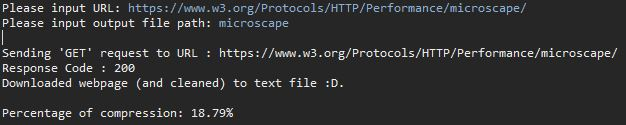
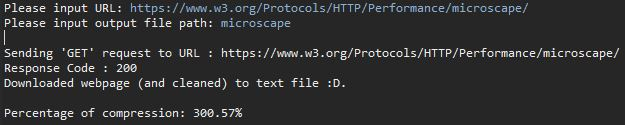
Added comments and updated files

diff --git a/src/edu/miracosta/cs113/HuffmanTrees/HuffmanTree.java b/src/edu/miracosta/cs113/HuffmanTrees/HuffmanTree.java
@@ -5,26 +5,43 @@ import java.util.Comparator;
 import java.util.Hashtable;
 import java.util.PriorityQueue;
 
-
+/**
+ * Huffman : Class that creates a huffman tree from a priority queue with given string
+ * 
+ * @author Joseph Berlucchi
+ * @version 1.0
+ */
 public class HuffmanTree implements HuffmanInterface {
 	
 	private PriorityQueue<BinaryTree<Node>> pq;
 	private ArrayList<Node> frequencyTable; 
 	private Hashtable<Character, String> encodeTable;
 	
+	/**
+	 * constuctor to create a Huffman tree from elements from the string argument
+	 * 
+	 * @param message the string object to be made a huffman tree
+	 */
 	public HuffmanTree(String message) {
 		pq = new PriorityQueue<BinaryTree<Node>>(new NodeCompare());
 		frequencyTable = new ArrayList<>();
 		encodeTable = new Hashtable<>();
 		
+		//Traverses the message as a character objects
 		for(char c : message.toCharArray()) {
+			
 			if(c == ' ') c = '_';
-
+			
+			
 			Node newNode = new Node(c);
+			
+			//If frequency table doesn't have the the element insert at the end
 			if(!frequencyTable.contains(newNode)) {
 				frequencyTable.add(newNode);
 				continue;
 			}
+			
+			//Traverses the table and updates the frequency
 			for(Node n : frequencyTable) {
 				if(n.equals(newNode)) {
 					n.setFreq(n.getFreq() + 1);
@@ -34,10 +51,11 @@ public class HuffmanTree implements HuffmanInterface {
 			
 		}
 		
+		//adds all the nodes as sub binary trees into the priority queue
 		for(Node n : frequencyTable) {
 			pq.add(new BinaryTree<Node>(n, null, null));
 		}
-
+		
 		loadTree();
 
 		
@@ -46,25 +64,38 @@ public class HuffmanTree implements HuffmanInterface {
 		
 	}
 	
+	/**
+	 * Inserts every code from a tree into a hash table
+	 * 
+	 * @param tree
+	 * @param s
+	 */
 	private void codesToHashtable(BinaryTree<Node> tree, String s) {
+		//If tree is a leaf insert key and vaue into the hash table
 		if(tree.isLeaf()) {
 			encodeTable.put(tree.getData().getChar(), s);
 			return;
 		}
+		//recursive case to traverse the tree
 		codesToHashtable(tree.getLeftSubtree(), s + "0");
 		codesToHashtable(tree.getRightSubtree(), s + "1");
 	}
 	
-	
+	/**loads the into a priority queue*/
 	private void loadTree() {
+		
 		while(pq.size() > 1) {
+			//Polls the first two from prio queue
 			BinaryTree<Node> first = pq.poll();
 			BinaryTree<Node> second = pq.poll();
 			
+			//Creates the parent node of these queues
 			Node newRootNode = new Node(first.getData().getFreq() + second.getData().getFreq());
+			//Adds a new tree to prio queue
 			pq.add(new BinaryTree<Node>(newRootNode, first, second));
 			
 		}
+		
 		codesToHashtable(pq.peek(), "");
 		
 	}
@@ -101,6 +132,8 @@ public class HuffmanTree implements HuffmanInterface {
 	@Override
 	public String encode(String message) {
 		String output = "";
+		
+		//For each character get the character value from the and append to the string
 		for(char c : message.toCharArray()) {
 			if(c == ' ') c = '_';
 			output += encodeTable.get(c);
@@ -108,6 +141,12 @@ public class HuffmanTree implements HuffmanInterface {
 		return output;
 	}
 	
+	/**
+	 * Node : Class that stores the frequency of a character
+	 * 
+	 * @author Joseph Berlucchi
+	 * @version 1.0
+	 */
 	private class Node implements Comparable<Node>{
 		private char c;
 		private int freq;
@@ -138,6 +177,7 @@ public class HuffmanTree implements HuffmanInterface {
 			this.freq = freq;
 		}
 		
+		/**Equality based on character*/
 		@Override
 		public boolean equals(Object o) {
 			if(o == null) return false;
@@ -150,7 +190,8 @@ public class HuffmanTree implements HuffmanInterface {
 		public String toString() {
 			return c + ":" + freq;
 		}
-
+		
+		/**Compares based on frequency*/
 		@Override
 		public int compareTo(Node o) {
 			if(o == null) {
@@ -166,8 +207,15 @@ public class HuffmanTree implements HuffmanInterface {
 		}
 	}
 	
+	/**
+	 * NodeCompare : Comparator object to compare root data from two bonary trees
+	 * 
+	 * @author Joseph Berlucchi
+	 * @version 1.0
+	 */
 	private class NodeCompare implements Comparator<BinaryTree<Node>>{
-
+		
+		/**Compares root data*/
 		@Override
 		public int compare(BinaryTree<Node> o1, BinaryTree<Node> o2) {
 			

diff --git a/src/edu/miracosta/cs113/HuffmanTrees/HuffmanTreeDriver.java b/src/edu/miracosta/cs113/HuffmanTrees/HuffmanTreeDriver.java
@@ -7,34 +7,66 @@ import java.io.FileReader;
 import java.io.FileWriter;
 import java.io.IOException;
 import java.util.Scanner;
-
+/**
+ * HuffmanTreeDriver.java: a driver to compress data from a website
+ *  
+ * @author Joseph Berlucchi <joeberlucchi2019@gmail.com>
+ * @Version 1.0
+ * 
+ */
 public class HuffmanTreeDriver {
+	/*
+     * ALGORITHM:
+     * 
+     * PROMPT user for URL and filename
+     * 
+     * Invoke makeCleanFIle with the url and path name
+     * get bits in file by taking the number of chars in the file and multiplying it by 16.
+     * read all the characters from the file and put it into a string
+     * create a huffman tree from the string above
+     * invoke encode from HuffmanTree class using the string
+     * put the encoded string into a different file
+     * decode the encoded and put it into a differnt file
+     * get number of characters from the encoded file
+     * 
+     * Print compression percentage by taking the bits in raw file / compressed file bits
+     *
+     */
 	
 	public static void main(String[] args) {
 		Scanner input = new Scanner(System.in);
+		
+		//Prompt user for URL and file name
 		System.out.print("Please input URL: ");
 		String URL = input.nextLine();
 		System.out.print("Please input output file path: ");
 		String filename = input.nextLine();
+		
+		//All three diferent file names
 		String outputFilePathD =  "src\\edu\\miracosta\\cs113\\HuffmanTrees\\"+ filename + "Decode.txt";
 		String outputFilePath =  "src\\edu\\miracosta\\cs113\\HuffmanTrees\\"+ filename + "Encode.txt";
 		String inputFilePath = "src\\edu\\miracosta\\cs113\\HuffmanTrees\\"+ filename + "Raw.txt";
 		
+		// open the url and put it into a file
 		try {
-			TextFileGenerator.makeCleanFile(URL, inputFilePath);// src/edu/miracosta/cs113/HuffmanTrees/output.txt
+			TextFileGenerator.makeCleanFile(URL, inputFilePath);
 		} catch (IOException e) {
 			System.exit(0);
 			e.printStackTrace();
 		}
 		
-		double fileBits = TextFileGenerator.getNumChars(inputFilePath);
+		//Calculate bits from that file
+		double fileBits =  16 * TextFileGenerator.getNumChars(inputFilePath);
 		BufferedReader in = null;
+		
+		//Get a buffered reader for the file
 		try {
 			in = new BufferedReader(new FileReader(inputFilePath));
 		} catch (FileNotFoundException e) {
 			System.exit(0);
 		}
 		
+		//Traverses each character in the file and appends it to a string object
 		int nextChar = -1;
 		String all = "";
 		do {
@@ -47,10 +79,13 @@ public class HuffmanTreeDriver {
 			
 		}while(nextChar != -1);
 		
+		//Create huffman tree
 		HuffmanTree huff = new HuffmanTree(all);
 		
+		//Encode the file
 		String encoded = huff.encode(all);
 		
+		// Writes the encoded to a file and decodes the encoded and puts it into a file
 		BufferedWriter out = null;
 		try {
 			out = new BufferedWriter(new FileWriter(outputFilePath));
@@ -60,11 +95,13 @@ public class HuffmanTreeDriver {
 			out.write(huff.decode(encoded));
 			out.close();
 		} catch (IOException e) {
-			// TODO Auto-generated catch block
 			e.printStackTrace();
 		}
+		
+		//Gets bits from file
 		double compressedFileBits = TextFileGenerator.getNumChars(outputFilePath);
 		
+		//Prints the percentage of compression
 		System.out.printf("\nPercentage of compression: %.2f%%", (fileBits / compressedFileBits * 100));
 		
 		

diff --git a/src/edu/miracosta/cs113/homework8/HashTableChain.java b/src/edu/miracosta/cs113/homework8/HashTableChain.java
@@ -8,7 +8,12 @@ import java.util.LinkedList;
 import java.util.Map;
 import java.util.NoSuchElementException;
 import java.util.Set;
-
+/**
+ * HashTableChain : Uses an array of liked lists to create a hash map
+ * 
+ * @author Joseph Berlucchi
+ * @version 1.0
+ */
 public class HashTableChain<K, V> implements Map<K, V>{
 	
 	private LinkedList<Entry<K, V>>[] table;
